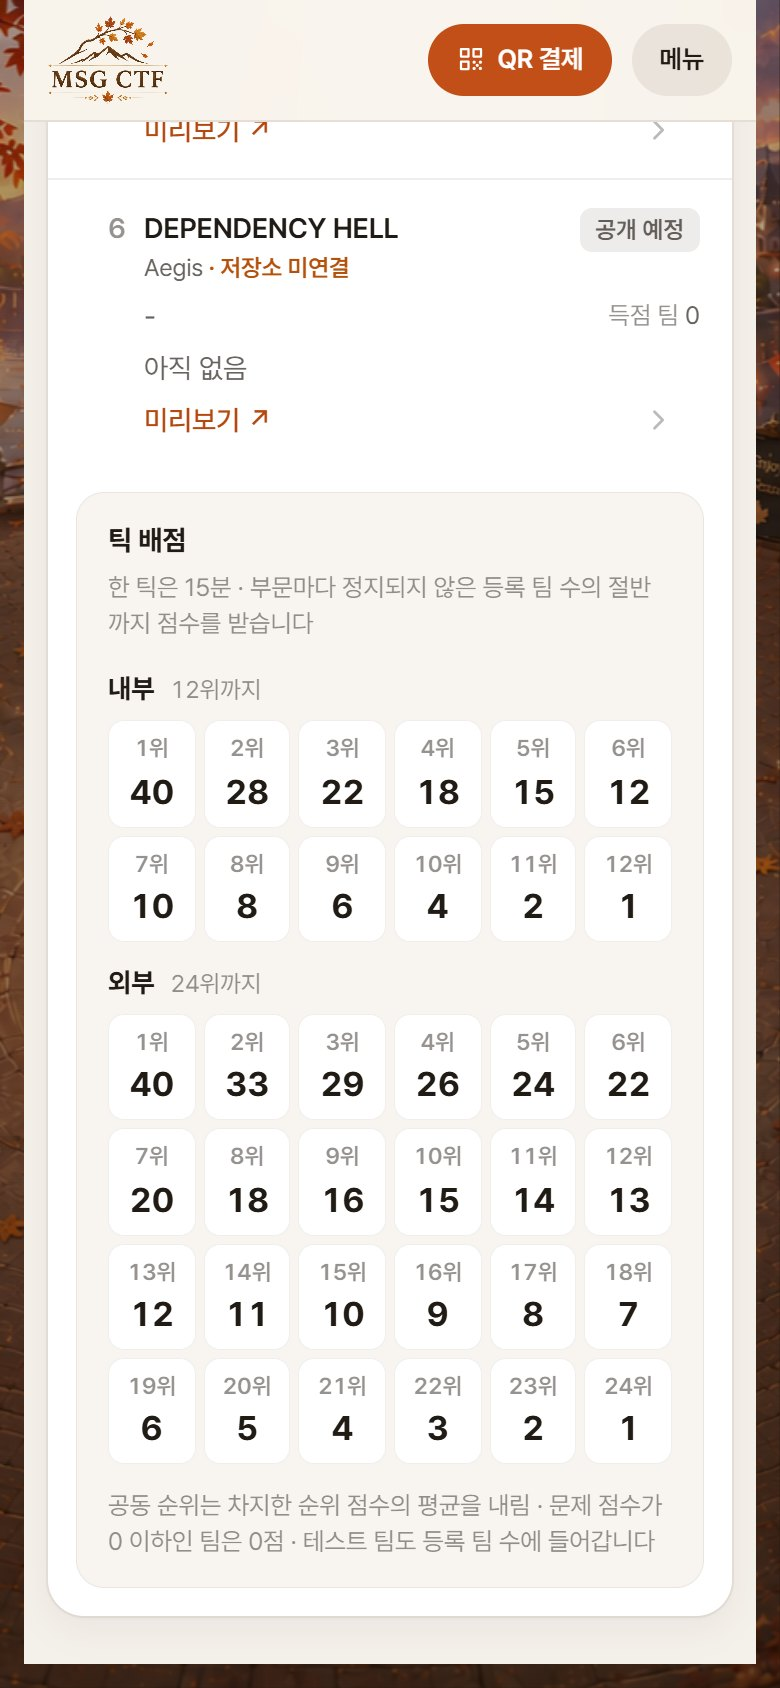
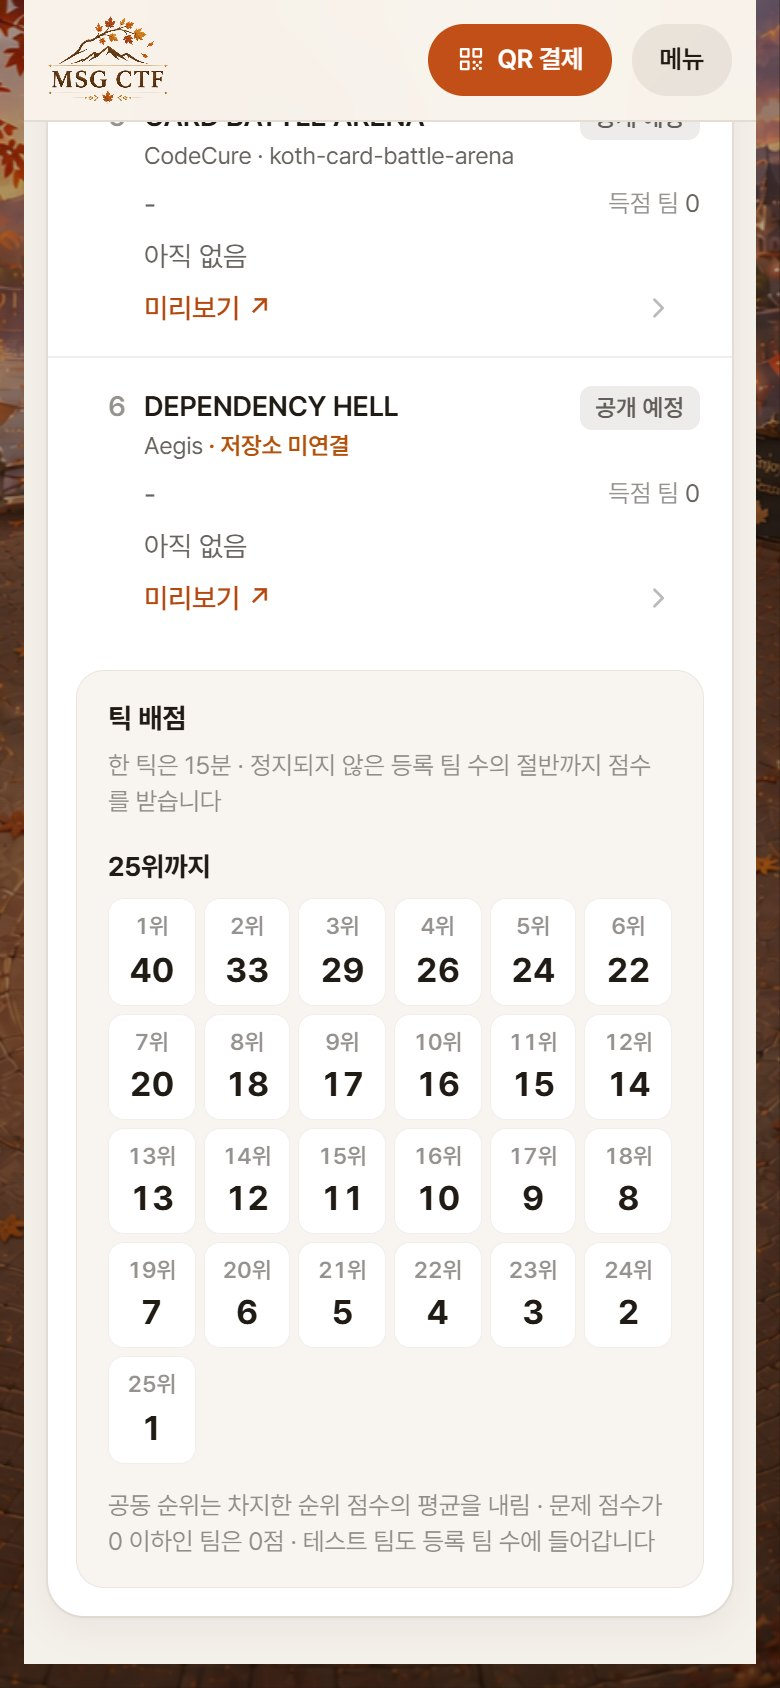
docs: KoTH 배점 예시와 캡처를 외부 50팀 배포 기준으로 갱신
- 외부 50팀 25위까지, 내부 25팀 12위까지 배점표와 테스트 팀 수 주의 추가
- 목록, 누적 순위, 틱 기록, 폰 화면 캡처 다시 찍음

diff --git a/docs/admin-koth.md b/docs/admin-koth.md
@@ -4,6 +4,7 @@
 
 백엔드 main 의 부문별 배점(내부·외부 부문마다 상위 절반에 40점부터 1점)을 목록과 상세에 그대로 보입니다
 프론트에 있던 1~5위 고정 배점 상수와 환산 계산은 지웠습니다
+외부와 내부는 같은 코드로 따로 배포하므로 배포마다 팀 있는 부문 하나의 표만 보입니다
 
 2026-10-26 KST 변경
 
@@ -30,7 +31,7 @@
 ## 화면 동작
 
 - 화면은 15분 구간을 틱이라고 부른다 문제를 연 시각이 든 칸이 1틱이고, 그 뒤 15분마다 2틱, 3틱으로 센다
-- 목록: 공개 순번 순서로 상태, 선두 팀과 점수, 득점 팀 수, 마지막 틱과 수집 상태, 저장소 연결 여부를 한 줄씩 보이고, 표 아래에 부문별 틱 배점을 둔다
+- 목록: 공개 순번 순서로 상태, 선두 팀과 점수, 득점 팀 수, 마지막 틱과 수집 상태, 저장소 연결 여부를 한 줄씩 보이고, 표 아래에 틱 배점을 둔다
 - 등록: 목록 위 직접 등록과 저장소에서 가져오기
   - 동아리마다 문제는 하나라 문제가 없는 동아리만 고르거나 새 동아리 이름을 쓴다 새 문제는 공개 예정으로 만든다
   - 저장소에서 가져오면 아직 연결하지 않은 koth-* 폴더를 골라 info.yaml 이름과 지문을 채우고, 채점 토큰 이름은 KOTH_폴더이름_TOKEN 으로 제안한다
@@ -38,7 +39,7 @@
   - 문제 서버에 넣을 내부 토큰 원문은 등록 직후 한 번만 보인다 상세에서 이어서 설정하면 문제 정보 탭부터 연다
 - 상세 탭
   - 틱 기록: 1틱부터 마지막 틱까지 상태 색으로 칠한 번호 칸을 한 줄로 보이고, 고른 틱의 순위, 문제 점수(metric_score), 환산 점수를 아래에 보인다 실패한 틱과 끝났는데 반영 전인 틱은 하나씩 또는 한 번에 다시 불러온다 100틱이 넘으면 이전 틱 쪽을 이어 붙인다
-  - 누적 순위: GET /koth/leaderboard (구현 완료) 그대로, 위에 부문별 틱 배점을 둔다 상세 응답에는 배점표가 없어 목록 응답의 scoring 을 따로 받는다
+  - 누적 순위: GET /koth/leaderboard (구현 완료) 그대로, 위에 틱 배점을 둔다 상세 응답에는 배점표가 없어 목록 응답의 scoring 을 따로 받는다
   - 문제 정보: 제목, 공개 순번, 상태, 여는 시각과 닫는 시각, 참가자 접속 주소, 채점 주소와 토큰 환경 변수 이름, 지문을 고치고 사유를 남긴다 바뀐 칸만 보낸다 저장 전에 연결 확인으로 두 주소를 서버에서 불러 본다
   - 참가자 파일: 저장소 prob/for_user 폴더를 zip 하나로 묶어 주거나 파일 없이 접속 주소만 준다 캐시, 메타 파일, 환경 변수 파일처럼 섞이면 안 되는 파일을 따로 알린다
   - 저장소 연결: 문제 저장소의 koth-* 폴더를 골라 잇고, 원하면 info.yaml 이름과 지문을 가져온다
@@ -53,13 +54,19 @@
 - 문제 점수(metric)가 0 이하인 팀은 0점, 공동 순위는 차지한 순위 점수의 평균을 내림한다
 - 반영한 틱은 그때 팀 수로 매긴 점수를 award_snapshot 에 남긴다 새 규칙 전에 반영된 틱은 예전 1~5위 고정 배점으로 다시 만든 기록이다(award_provenance RECONSTRUCTED_FROM_RESPONSE)
 - 화면은 배점을 계산하지 않는다 배점표는 GET /admin/koth/challenges 의 scoring.points_by_division, 틱 결과는 awarded_score 를 그대로 보인다
+- 화면은 팀이 있는 부문만 보이고, 하나뿐이면 부문 이름 없이 표 하나만 보인다 두 부문에 모두 팀이 있으면 내부, 외부 순서로 이름을 붙인다
 
-예: 내부 25팀 · 외부 49팀(목업)
+외부와 내부는 같은 코드로 따로 배포한다 한 배포에는 부문이 하나라 순위가 내려가면 점수도 같이 내려간다
 
-| 부문 | 지급 순위 | 배점 |
+| 배포 | 지급 순위 | 배점 |
 | --- | --- | --- |
-| 내부 | 12위까지 | 40 · 28 · 22 · 18 · 15 · 12 · 10 · 8 · 6 · 4 · 2 · 1 |
-| 외부 | 24위까지 | 40 · 33 · 29 · 26 · 24 · 22 · 20 · 18 · 16 · 15 · 14 · 13 · 12 · 11 · 10 · 9 · 8 · 7 · 6 · 5 · 4 · 3 · 2 · 1 |
+| 외부 50팀 | 25위까지 | 40 · 33 · 29 · 26 · 24 · 22 · 20 · 18 · 17 · 16 · 15 · 14 · 13 · 12 · 11 · 10 · 9 · 8 · 7 · 6 · 5 · 4 · 3 · 2 · 1 |
+| 내부 25팀 | 12위까지 | 40 · 28 · 22 · 18 · 15 · 12 · 10 · 8 · 6 · 4 · 2 · 1 |
+
+- 테스트 팀도 세므로 외부 배포에 테스트 팀 2개가 남아 있으면 52팀으로 26위까지, 2위 34점이 된다 정지한 팀은 세지 않는다
+- 팀을 만들 때 koth_division 을 보내지 않으면 EXTERNAL 이다 내부 배포의 팀이 모두 EXTERNAL 이어도 점수는 같고, 화면에도 부문 이름이 나오지 않는다
+
+아래 화면은 목업 외부 배포(외부 50팀)다
 
 ![KoTH 목록의 틱 배점](images/admin/koth-scoring-list.jpg)
 
@@ -104,14 +111,14 @@
   "scoring": {
     "period_minutes": 15, "first_place_points": 40,
     "points_by_division": {
-      "INTERNAL": [40, 28, 22, 18, 15, 12, 10, 8, 6, 4, 2, 1],
-      "EXTERNAL": [40, 33, 29, 26, 24, 22, 20, 18, 16, 15, 14, 13, 12, 11, 10, 9, 8, 7, 6, 5, 4, 3, 2, 1]
+      "INTERNAL": [],
+      "EXTERNAL": [40, 33, 29, 26, 24, 22, 20, 18, 17, 16, 15, 14, 13, 12, 11, 10, 9, 8, 7, 6, 5, 4, 3, 2, 1]
     }
   }
 }
 ```
 
-- scoring.points_by_division 은 지금 등록 팀 수로 만든 부문별 순위 점수다 첫 칸이 1위다 팀이 없는 부문은 빈 배열
+- scoring.points_by_division 은 지금 등록 팀 수로 만든 부문별 순위 점수다 첫 칸이 1위다 팀이 없는 부문은 빈 배열 (위 예시는 외부 50팀 배포)
 
 - challenge_url 은 상태와 상관없이 원문을 준다 (참가자 API는 ACTIVE 일 때만 준다)
 - score_api_configured 는 score_api_url 과 토큰 환경 변수가 모두 있는지만 알린다
